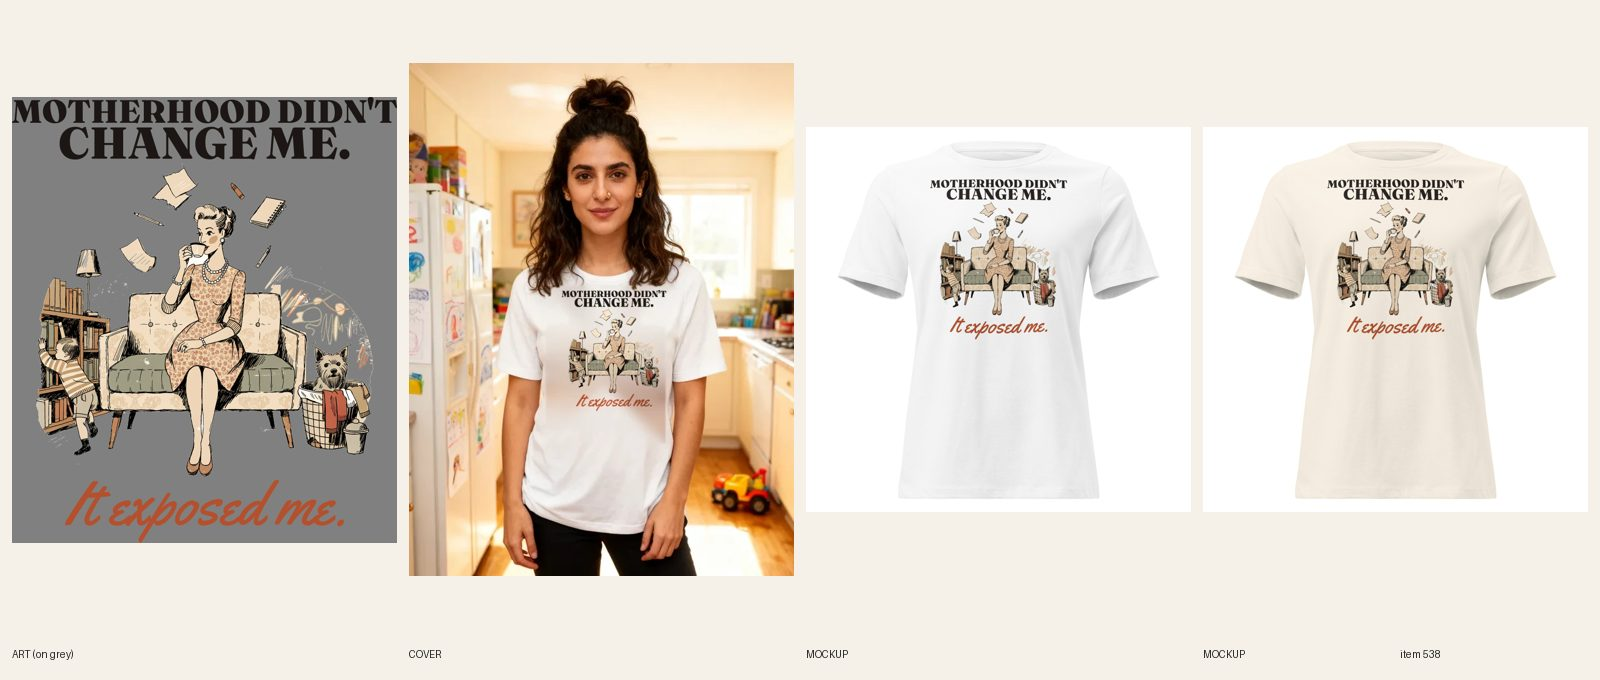
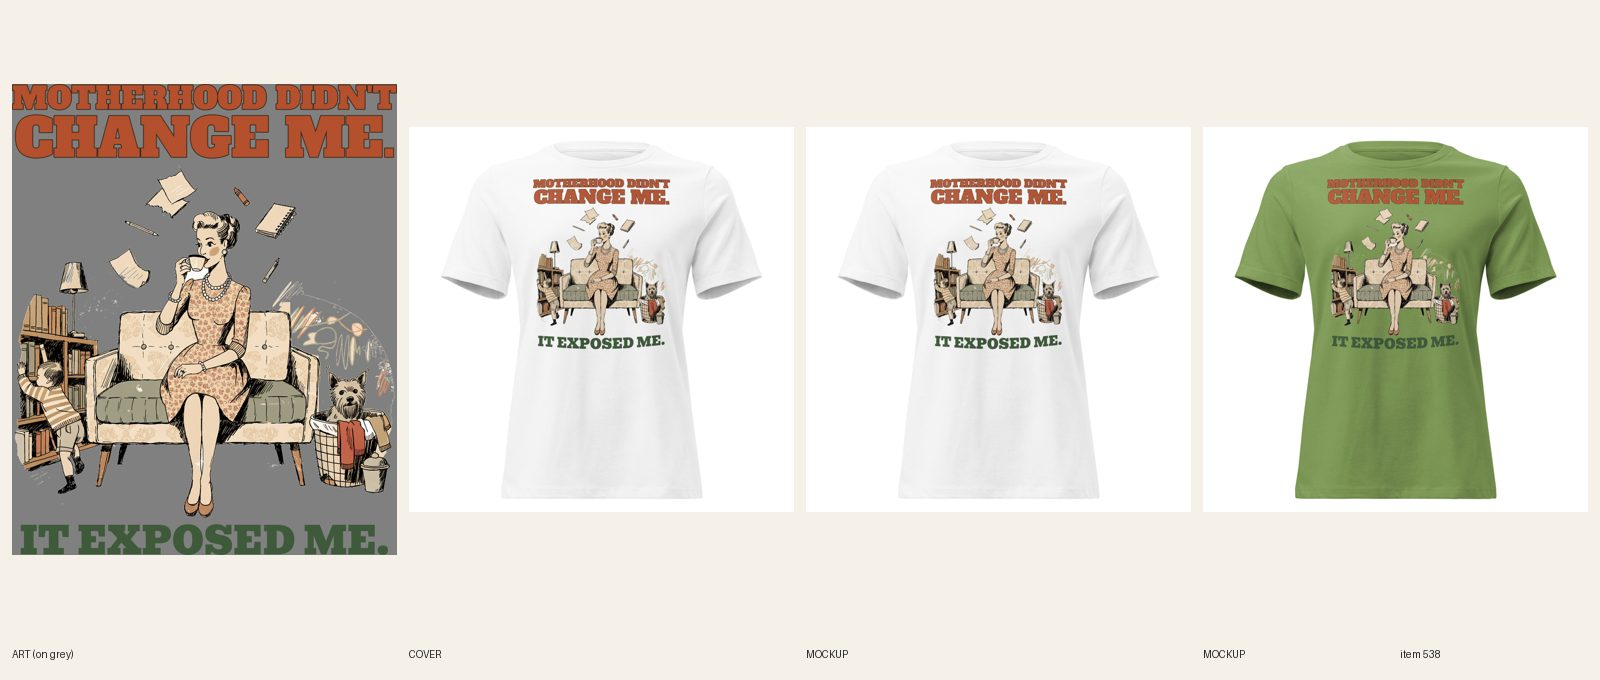
[E] review 538 Women's Motherhood Didn't Change Me tee (type redo)

diff --git a/designs/e538/compose.py b/designs/e538/compose.py
@@ -1,0 +1,32 @@
+#!/usr/bin/env python3
+"""#538 type redo: heavy Alfa Slab stacked lockup around the existing 1950s housewife art (transparent), all inks dark for the light blanks."""
+import sys
+from PIL import Image, ImageDraw, ImageFont
+F = 'designs/fonts/'
+src = Image.open('docs/print-files/538-motherhood-exposed-me.png').convert('RGBA')
+art = src.crop((0, 540, src.width, 3250)); art = art.crop(art.getbbox()); art.save('designs/e538/art.png')
+W = art.width
+def line(text, font, fill, stroke, sfill, width):
+    size = 80
+    while True:
+        f = ImageFont.truetype(F + font, size)
+        bb = f.getbbox(text, stroke_width=stroke)
+        if bb[2] - bb[0] >= width or size > 2000:
+            break
+        size += 4
+    im = Image.new('RGBA', (bb[2] - bb[0] + 20, bb[3] - bb[1] + 20), (0, 0, 0, 0))
+    ImageDraw.Draw(im).text((10 - bb[0], 10 - bb[1]), text, font=f, fill=fill, stroke_width=stroke, stroke_fill=sfill)
+    return im.crop(im.getbbox())
+RUST, BROWN, GREEN = '#b4502d', '#3b2a1d', '#3f5a3a'
+l1 = line("MOTHERHOOD DIDN'T", 'AlfaSlabOne-Regular.ttf', RUST, 6, BROWN, W)
+l2 = line('CHANGE ME.', 'AlfaSlabOne-Regular.ttf', RUST, 6, BROWN, W)
+l3 = line('IT EXPOSED ME.', 'Bevan-Regular.ttf', GREEN, 0, GREEN, int(W * 0.96))
+gaps = [30, 50, 50]
+stack = [l1, l2, art, l3]
+H = sum(i.height for i in stack) + sum(gaps)
+out = Image.new('RGBA', (max(i.width for i in stack), H), (0, 0, 0, 0))
+y = 0
+for k, i in enumerate(stack):
+    out.alpha_composite(i, ((out.width - i.width) // 2, y)); y += i.height + (gaps[k] if k < 3 else 0)
+out.save(sys.argv[1], dpi=(300, 300))
+print(out.size, [i.size for i in stack], 'ratio', out.height / out.width, 'l3/l1 height', l3.height / l1.height)

diff --git a/docs/pipeline/538-mom-tee-motherhood-exposed-me.md b/docs/pipeline/538-mom-tee-motherhood-exposed-me.md
@@ -1,4 +1,4 @@
-status: BUILDING E 2026-10-19 20:16
+status: REVIEW
 lane: E
 type: new
 id: 538
@@ -35,3 +35,4 @@ kd: 56
 - 2026-10-18 11:15 UTC builder [E]: Printful check (R7.7): 30/30 on file 1088794977, back logo 30/30. REVIEW.
 - 2026-10-18 10:18 UTC director: LIVE. Wall disc gone, M clear on the cover. Copy fix in Shopify: 'crayon scribbles cover a patch of wall' (the wall is gone) and the FAQ's templated 'in dark ink' now names black headline / rust caption (R8.3). ACTIVE + Online Store/Headless/Google & YouTube; audit --handle PASS 0 warn. Sheet to reference/best.
 - 2026-10-18 17:22 UTC director: QUALITY RESET grade B (type only), REDO. The product stays ACTIVE (same handle, URL, title keyword). Keep the line "MOTHERHOOD DIDN'T / CHANGE ME. / It exposed me." and the art. 1. Type: Black headline not from art colors; thin rust script under art. 2. Quality reset type bar (docs/backlog/quality-reset.md, 'The new bar'): headline at least 90% of the art width, heavy, colors pulled from the art; second line at least 45% of the headline's height, never a thin script on a dark or mid garment; use the lettering as a shape (arch, stacked lockup, words breaking into the art), not a plain bar above and a script line below; no font used on more than 1 in 6 of the last 30 designs. 3. New print file means a new cover per R6.10 and a fresh review sheet (R7.7). While quality-reset.md says PAUSED, only lane A builds, and only the samples step 2 names.
+- 2026-10-19 20:31 UTC builder [E]: REDO type-only done. Same housewife art (old text bars cropped off), new lockup designs/e538/compose.py: MOTHERHOOD DIDN'T / CHANGE ME. Alfa Slab One rust #b4502d with brown keyline, both lines at full art width; IT EXPOSED ME. Bevan dark green #3f5a3a at 96% width (second line 117% of a headline line's height). All inks dark: no light file needed for the five light colors. Print 2914 x 3568 px, Printful file 1089823424, FW 1400 TOP 50 (ratio 1.22 caps FW), resynced 30/30 (verified). 5 fronts replaced in place in Shopify (back unchanged). Story and ink FAQ sentence updated (rust headline, green second line). Cover: plain product shot (handle already in retired-covers.json). Phone-size read: all lines clear on White and Leaf. fal $0. Sheet docs/review/538.jpg.

diff --git a/docs/intake-log.md b/docs/intake-log.md
@@ -1,4 +1,4 @@
-RUNNING lane E since 2026-10-19 20:16 UTC
+2026-10-19 20:31 UTC — [E] Builder run: redid #538 Women's Motherhood Didn't Change Me tee (type only: Alfa Slab rust headline full width + Bevan green IT EXPOSED ME., same art, FW 1400, file 1089823424, 30/30 resynced, 5 fronts replaced in place, plain product shot). REVIEW. fal $0. Lock released.
 2026-10-19 20:12 UTC — [B] Builder run: redid #548 National Park crewneck (ported #624 THE VIEW BETTER / BE WORTH IT. print, FW 1650, 12/12 relinked, 2 fronts replaced in place, copy updated, plain product shot). REVIEW. fal $0. 1 redo per run cap reached. Lock released.
 RUNNING lane C since 2026-10-19 19:52 UTC
 RUNNING director since 2026-10-19 20:12 UTC
